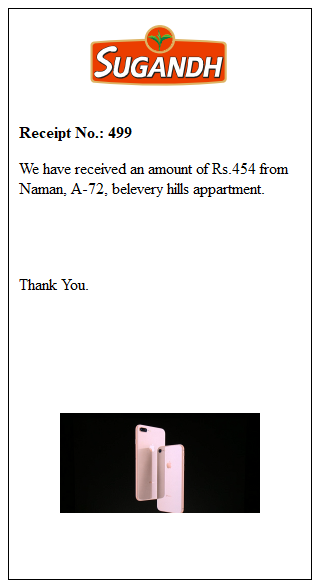
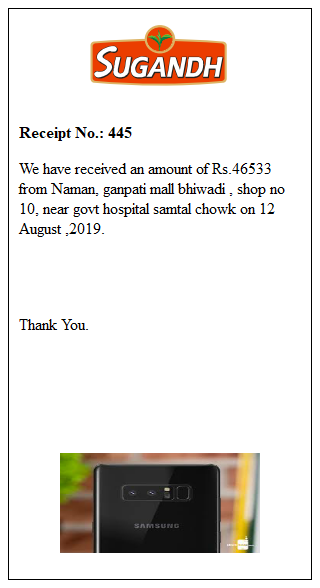
adding date in receipt image

diff --git a/controllers/client_controller.js b/controllers/client_controller.js
@@ -6,6 +6,13 @@ const AVATAR_PATH = path.join('/uploads/users/avatars');
 
 const Client = require('../models/client');
 
+// date in receipt image
+const monthNames = ["January", "February", "March", "April", "May", "June",
+  "July", "August", "September", "October", "November", "December"
+];
+
+var today = new Date();
+var date = today.getDate()+' '+monthNames[today.getMonth()]+' ,'+today.getFullYear();
 
 
 module.exports.client  = function(req,res){
@@ -19,8 +26,8 @@ module.exports.client  = function(req,res){
 
     const path1 =  __dirname.split('\\');
     path1.pop();
-    const logo = "https://receipt-making.herokuapp.com/images/sugandh.png";
-    const image = "https://receipt-making.herokuapp.com/uploads/users/avatars/file.jpg";
+    const logo = "http://localhost:8000/images/sugandh.png";
+    const image = "http://localhost:8000/uploads/users/avatars/file.jpg";
     
     // making receipt image
     const HTML = `
@@ -37,7 +44,7 @@ module.exports.client  = function(req,res){
                 <div style="text-align: left;">
                     <span style="font-weight: bold;">Receipt No.: ${req.query.receipt}</span><br>
         
-                    <p>We have received an amount of Rs.${req.query.recieved} from ${req.query.name}, ${req.query.address}.</p>
+                    <p>We have received an amount of Rs.${req.query.recieved} from ${req.query.name}, ${req.query.address}  on ${date}.</p>
                     <br>
                     <br>
                     <br>
@@ -76,6 +83,7 @@ module.exports.client  = function(req,res){
     });
 }
 
+// alloting storage for uploaded photo
 let storage = multer.diskStorage({
     destination: function (req, file, cb) {
       cb(null, path.join(__dirname, '..', AVATAR_PATH));
@@ -92,7 +100,7 @@ const upload = multer({
 
 
 
-
+// controller for uploading function
 module.exports.upload = function(req,res){
     upload(req,res,(err) =>{
         if(err){

diff --git a/assets/js/home.js b/assets/js/home.js
@@ -1,6 +1,9 @@
-$(document).ready(function(){
 
+$(document).ready(function(){
+    
     $("#upload").click(function(e){
+
+        let target = $(e.target);
         e.preventDefault();
         var fd = new FormData();
         var files = $('#file')[0].files[0];
@@ -16,11 +19,16 @@ $(document).ready(function(){
                 if(response != 0){
                     $("#img").attr("src",response); 
                     $(".preview img").show(); // Display image element
-                    alert('photo uploaded successfully')
+                    alert('photo uploaded successfully');
+                    
                 }else{
                     alert('file not uploaded');
                 }
             },
         });
+
+         // Check to see if the target is the div.
+ 
     });
 });
+

diff --git a/assets/css/home.css b/assets/css/home.css
@@ -103,3 +103,4 @@
 		width: 60%;
 	}
 }
+
